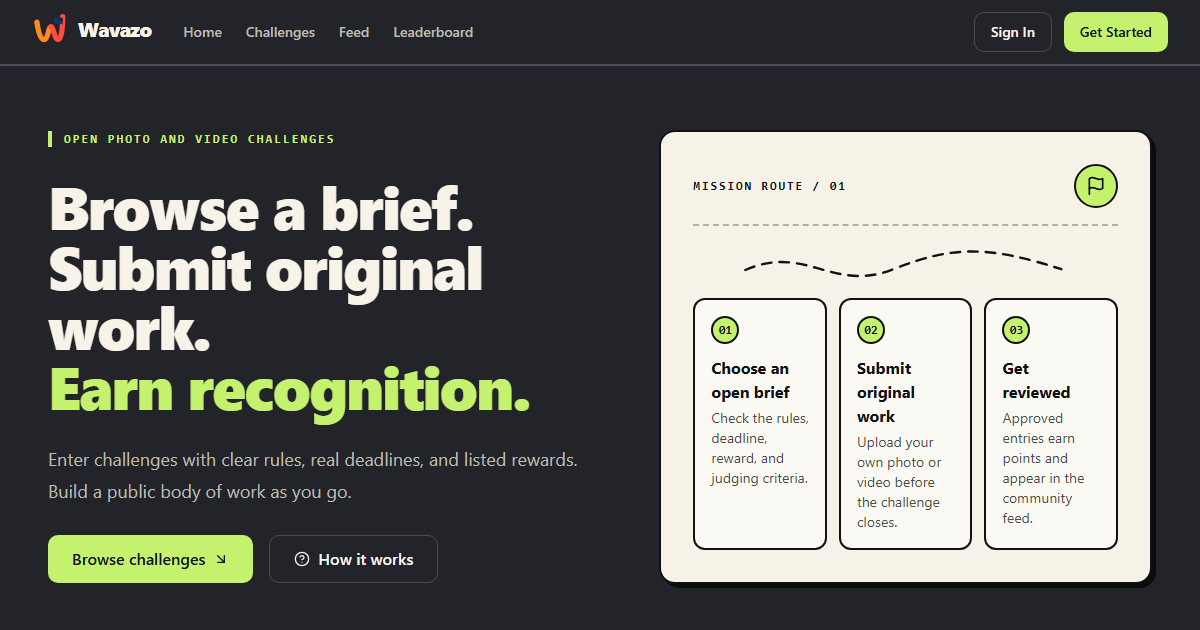
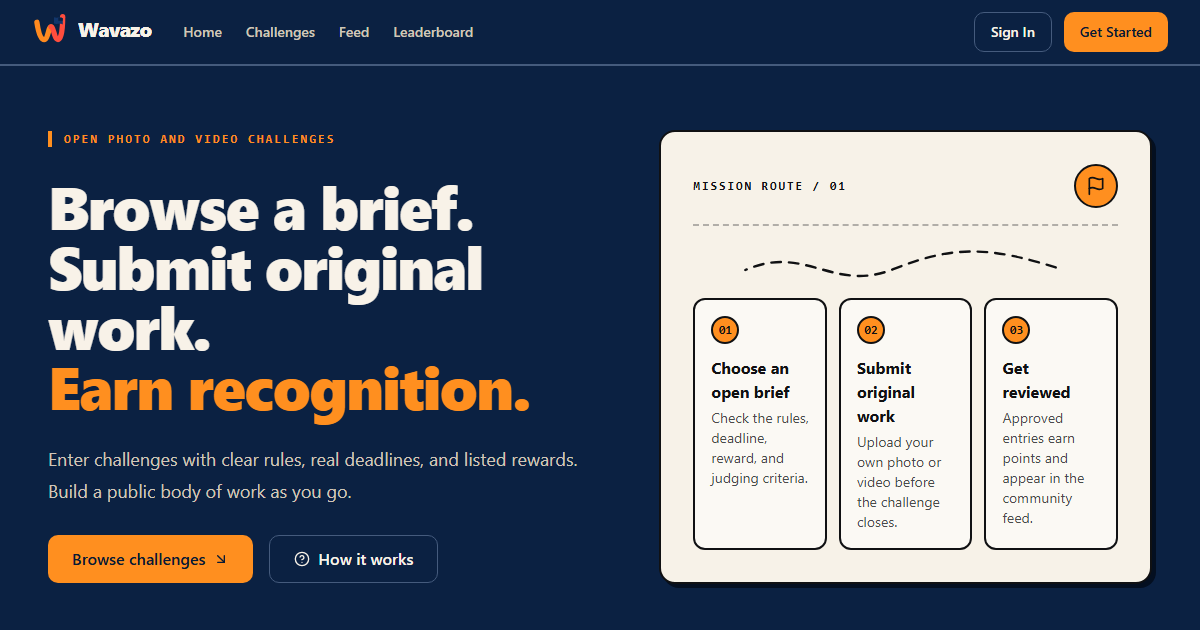
Align Wavazo interface with its brand palette

diff --git a/src/components/ChallengeArtwork.tsx b/src/components/ChallengeArtwork.tsx
@@ -28,14 +28,14 @@ export const ChallengeArtwork = ({ src, alt, className }: ChallengeArtworkProps)
     <div className={cn("h-full w-full bg-[#f7f2e8]", className)} role="img" aria-label={`${alt} — Wavazo illustrated cover`}>
       <svg viewBox="0 0 640 360" className="h-full w-full" aria-hidden="true">
         <rect width="640" height="360" fill="#f7f2e8" />
-        <circle cx="530" cy="72" r="42" fill="#69c6f0" stroke="#101113" strokeWidth="7" />
-        <path d="M165 292C178 145 268 72 420 82c-24 142-111 216-255 210Z" fill="#c7f36b" stroke="#101113" strokeWidth="8" />
-        <path d="m188 277 205-177M269 206l-22-72m78 26 72 16" fill="none" stroke="#101113" strokeWidth="7" strokeLinecap="round" />
-        <path d="M112 310c96 31 205 11 304-63" fill="none" stroke="#101113" strokeWidth="7" strokeDasharray="14 13" />
-        <circle cx="98" cy="280" r="24" fill="#69c6f0" stroke="#101113" strokeWidth="7" />
-        <path d="M70 360c3-74 56-74 59 0" fill="#ff705d" stroke="#101113" strokeWidth="7" />
-        <path d="M416 201v65l56-23-56-22" fill="#ff705d" stroke="#101113" strokeWidth="7" strokeLinejoin="round" />
-        <path d="M513 55a28 28 0 1 0 20 47l21 12V86l-10-6a28 28 0 0 0-31-25Z" fill="#101113" />
+        <circle cx="530" cy="72" r="42" fill="#ff4d3d" stroke="#12366b" strokeWidth="7" />
+        <path d="M165 292C178 145 268 72 420 82c-24 142-111 216-255 210Z" fill="#ff8a1f" stroke="#12366b" strokeWidth="8" />
+        <path d="m188 277 205-177M269 206l-22-72m78 26 72 16" fill="none" stroke="#12366b" strokeWidth="7" strokeLinecap="round" />
+        <path d="M112 310c96 31 205 11 304-63" fill="none" stroke="#12366b" strokeWidth="7" strokeDasharray="14 13" />
+        <circle cx="98" cy="280" r="24" fill="#ff4d3d" stroke="#12366b" strokeWidth="7" />
+        <path d="M70 360c3-74 56-74 59 0" fill="#ff8a1f" stroke="#12366b" strokeWidth="7" />
+        <path d="M416 201v65l56-23-56-22" fill="#ff4d3d" stroke="#12366b" strokeWidth="7" strokeLinejoin="round" />
+        <path d="M513 55a28 28 0 1 0 20 47l21 12V86l-10-6a28 28 0 0 0-31-25Z" fill="#12366b" />
       </svg>
     </div>
   );

diff --git a/src/index.css b/src/index.css
@@ -6,26 +6,26 @@
 
 @layer base {
   :root {
-    --background: 225 10% 15%;
-    --foreground: 42 48% 94%;
+    --background: 216 72% 15%;
+    --foreground: 39 52% 94%;
 
-    --card: 225 9% 20%;
-    --card-foreground: 42 48% 94%;
+    --card: 216 52% 21%;
+    --card-foreground: 39 52% 94%;
 
-    --popover: 225 9% 20%;
-    --popover-foreground: 42 48% 94%;
+    --popover: 216 55% 19%;
+    --popover-foreground: 39 52% 94%;
 
-    --primary: 81 84% 69%;
-    --primary-foreground: 225 10% 8%;
+    --primary: 30 100% 56%;
+    --primary-foreground: 216 72% 12%;
 
-    --secondary: 7 100% 68%;
-    --secondary-foreground: 225 10% 8%;
+    --secondary: 5 100% 62%;
+    --secondary-foreground: 39 52% 97%;
 
-    --muted: 225 7% 24%;
-    --muted-foreground: 44 9% 72%;
+    --muted: 216 39% 26%;
+    --muted-foreground: 34 20% 77%;
 
-    --accent: 198 80% 68%;
-    --accent-foreground: 225 10% 8%;
+    --accent: 5 100% 62%;
+    --accent-foreground: 39 52% 97%;
 
     --destructive: 0 72% 51%;
     --destructive-foreground: 0 0% 98%;
@@ -33,13 +33,13 @@
     --success: 142 76% 36%;
     --success-foreground: 0 0% 98%;
 
-    --border: 225 7% 31%;
-    --input: 225 7% 31%;
-    --ring: 81 84% 69%;
+    --border: 216 29% 38%;
+    --input: 216 29% 38%;
+    --ring: 30 100% 56%;
 
     --radius: 0.75rem;
 
-    --shadow-card: 4px 4px 0 hsl(225 12% 5%);
+    --shadow-card: 4px 4px 0 hsl(216 78% 7%);
     
     --transition-smooth: all 0.3s cubic-bezier(0.4, 0, 0.2, 1);
   }
@@ -62,7 +62,7 @@
   .mission-card:hover {
     transform: translateY(-3px);
     border-color: hsl(var(--primary));
-    box-shadow: 7px 7px 0 hsl(225 12% 5%);
+    box-shadow: 7px 7px 0 hsl(216 78% 7%);
   }
   .mission-card:active { transform: translateY(1px); }
   .mission-stamp { transition: transform 180ms cubic-bezier(.2,1.4,.4,1); }

diff --git a/index.html b/index.html
@@ -6,11 +6,13 @@
     <title>Wavazo — Creative challenges worth sharing</title>
     <meta name="description" content="Browse open photo and video challenges, submit original work, earn points, and compete for listed rewards." />
     <meta name="author" content="Wavazo" />
-    <meta name="theme-color" content="#0B1020" />
+    <meta name="theme-color" content="#0b2852" />
+    <link rel="canonical" href="https://wavazo.vercel.app/" />
     <link rel="icon" type="image/svg+xml" href="/wavazo-mark.svg" />
     <meta property="og:title" content="Wavazo — Creative challenges worth sharing" />
     <meta property="og:description" content="Browse open challenges, submit original work, and compete for listed rewards." />
     <meta property="og:type" content="website" />
+    <meta property="og:url" content="https://wavazo.vercel.app/" />
     <meta property="og:image" content="/wavazo-og.png" />
     <meta property="og:image:width" content="1200" />
     <meta property="og:image:height" content="630" />

diff --git a/src/pages/Index.tsx b/src/pages/Index.tsx
@@ -165,11 +165,11 @@ const Index = () => {
 
       <section className="px-4 pb-20">
         <div className="container">
-          <Card className="flex flex-col items-start justify-between gap-6 border-2 border-[#101113] bg-[#69c6f0] p-8 text-[#101113] shadow-card md:flex-row md:items-center md:p-10">
+          <Card className="flex flex-col items-start justify-between gap-6 border-2 border-[#101113] bg-secondary p-8 text-secondary-foreground shadow-card md:flex-row md:items-center md:p-10">
             <div>
               <p className="font-mono text-xs font-bold uppercase tracking-[0.16em]">Your next mission</p>
               <h2 className="mt-2 text-2xl font-black tracking-tight md:text-3xl">{t("cta.title")}</h2>
-              <p className="mt-2 max-w-2xl text-[#101113]/75">{t("cta.description")}</p>
+              <p className="mt-2 max-w-2xl text-secondary-foreground/80">{t("cta.description")}</p>
             </div>
             <Button
               size="lg"
